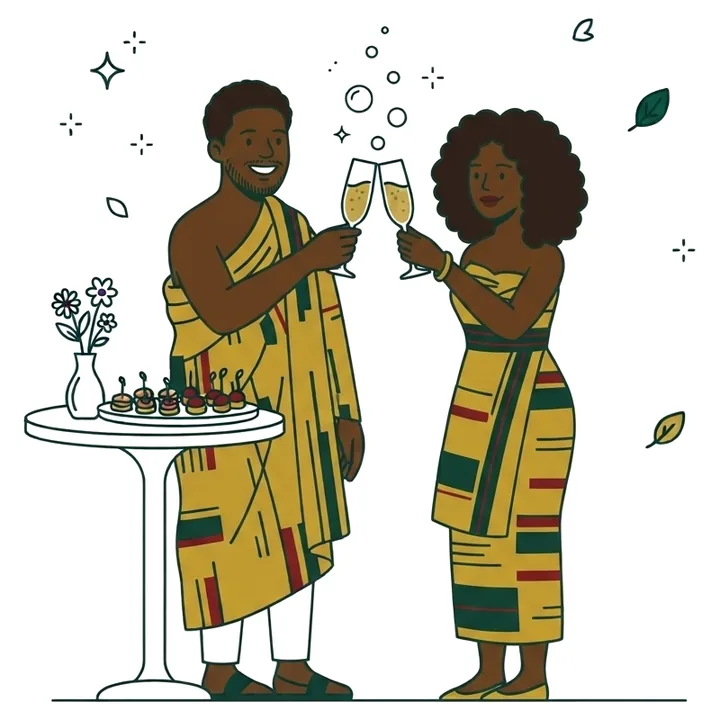
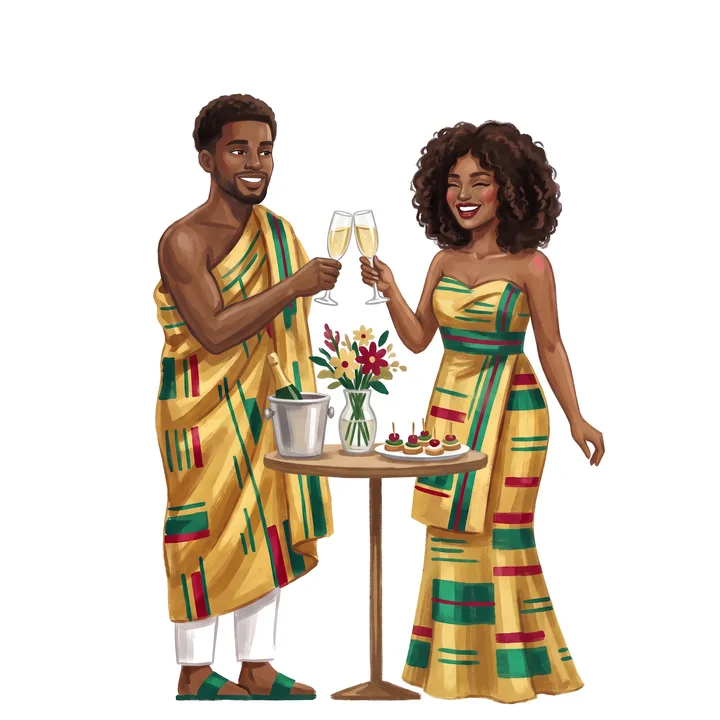
feat: busta interattiva con Gye Nyame e Matteo 19:6, hero con fedi e nuovo kente, dress code, timeline in stile illustrazione di moda

diff --git a/george-silvia/index.html b/george-silvia/index.html
@@ -16,24 +16,32 @@
   <link rel="preconnect" href="https://fonts.googleapis.com">
   <link rel="preconnect" href="https://fonts.gstatic.com" crossorigin>
   <link href="https://fonts.googleapis.com/css2?family=Cormorant+Garamond:ital,wght@1,500&family=DM+Sans:opsz,wght@9..40,300;9..40,400;9..40,500&family=Italiana&family=Pinyon+Script&display=swap" rel="stylesheet">
-  <link rel="preload" as="image" href="assets/img/hero.webp" media="(min-width: 768px)">
-  <link rel="preload" as="image" href="assets/img/hero-portrait.webp" media="(max-width: 767px)">
+  <link rel="preload" as="image" href="assets/img/hero-kente2.webp" media="(min-width: 768px)">
+  <link rel="preload" as="image" href="assets/img/hero-kente2-portrait.webp" media="(max-width: 767px)">
   <link rel="stylesheet" href="style.css">
   <script>document.documentElement.classList.add("js")</script>
 </head>
 <body>
 
-<!-- ============ INTRO: tessitura kente ============ -->
+<!-- ============ INTRO: busta che si apre (sigillo Gye Nyame, Matteo 19:6) ============ -->
 <div class="intro" id="intro">
-  <div class="intro__panel intro__panel--top" aria-hidden="true"></div>
-  <div class="intro__panel intro__panel--bottom" aria-hidden="true"></div>
-  <div class="intro__medal" aria-hidden="true">
-    <svg class="draw" viewBox="0 0 48 48" aria-hidden="true">
-      <use href="#i-akoma-ntoaso"/>
-    </svg>
-    <span class="intro__mono">G <i>&amp;</i> S</span>
+  <div class="intro__panel intro__panel--top" aria-hidden="true"><svg class="env__back" viewBox="0 0 100 100" preserveAspectRatio="none"><use href="#env-back"/></svg></div>
+  <div class="intro__panel intro__panel--bottom">
+    <svg class="env__back" viewBox="0 0 100 100" preserveAspectRatio="none" aria-hidden="true"><use href="#env-back"/></svg>
+    <blockquote class="env__verse">
+      <p data-i18n="intro.verse">«Così non sono più due, ma una sola carne; quello dunque che Dio ha unito, l'uomo non lo separi.»</p>
+      <cite data-i18n="intro.ref">Matteo 19:6</cite>
+      <span class="env__hint" data-i18n="intro.hint" aria-hidden="true">Tocca la busta per aprirla</span>
+    </blockquote>
   </div>
-  <p class="intro__lead"><span data-i18n="hero.lead">Benvenuti al matrimonio tradizionale di</span></p>
+  <div class="env__glow" aria-hidden="true"></div>
+  <svg class="env__flap" viewBox="0 0 100 100" preserveAspectRatio="none" aria-hidden="true">
+    <polygon points="0,0 100,0 50,56" fill="#0d3a2c"/>
+    <polyline points="0,0 50,56 100,0" fill="none" stroke="#C9A13B" stroke-opacity=".55" stroke-width="1" vector-effect="non-scaling-stroke"/>
+  </svg>
+  <button class="env__seal" type="button" aria-label="Apri la busta" data-i18n-aria="intro.open">
+    <svg viewBox="-38 -5 510 510" aria-hidden="true"><path fill="currentColor" fill-rule="evenodd" d="M180.475,11.245c11.609,15.968,7.794,46.741,26.767,55.644 c26.062-0.674,25.307-27.081,40.147-38.522c37.423-25.598,80.812-4.661,84.757,21.401c8.344,55.104-94.203,80.456-84.757,136.968 c9.536,33.494,46.84-40.814,80.296-4.281c29.544,65.467-102.894,51.963-95.405,99.257c8.479,69.408,83.598-43.18,99.866,7.75 c7.444,61.115-90.009,39.543-71.376,85.605c31.053,43.338,93.146-42.834,84.878-31.873c43.16-57.209,85.813-159.123,29.777-256.006 c99.626,91.095,71.729,313.357-69.21,350.594c14.787,9.459,18.504,36.646,8.087,48.568c-10.346,11.842-36.933,22.807-57.991,4.281 c-10.31-14.361,2.403-39.824-26.765-47.08c-18.745-4.664-32.433,39.398-55.647,52.135c-15.555,8.533-43.473,1.455-59.915-15.34 c-14.078-14.379-14.788-47.295,0.466-56.301c26.519-15.656,80.032-33.082,83.868-87.5c-5.471-40.646-59.689,35.025-84.756,8.559 c-34.083-68.123,83.784-46.83,89.217-102.725c-0.074-36.338-67.55,32.542-89.217-8.562c-38.333-69.896,114.667-36.896,93.68-94.165 c-24.013-47.731-112.56,5.376-147.334,72.364c-19.86,38.258-46.917,121.406-34.647,187.93 C-22.375,289.606-9.89,111.731,125.831,70.548c-16.777-6.39-21.382-28.988-8.3-51.689C125.911,4.318,159.07-11.08,180.475,11.245z"/></svg>
+  </button>
   <button class="intro__skip" type="button" data-i18n="intro.skip">Salta</button>
 </div>
 
@@ -57,19 +65,29 @@
   <!-- ============ HERO ============ -->
   <section class="hero" id="hero">
     <picture class="hero__media">
-      <source media="(max-width: 767px)" srcset="assets/img/hero-portrait.webp" type="image/webp">
-      <source srcset="assets/img/hero.webp" type="image/webp">
-      <img src="assets/img/hero.jpg" alt="" width="2752" height="1536">
+      <source media="(max-width: 767px)" srcset="assets/img/hero-kente2-portrait.webp" type="image/webp">
+      <source srcset="assets/img/hero-kente2.webp" type="image/webp">
+      <img src="assets/img/hero-kente2.jpg" alt="" width="2752" height="1536">
     </picture>
     <div class="hero__shade"></div>
     <div class="hero__content">
-      <p class="script hero__kicker" lang="ak">Akwaaba</p>
+      <p class="hero__lead"><span data-i18n="hero.lead">Benvenuti al nostro matrimonio tradizionale</span></p>
+      <p class="script hero__kicker" data-i18n="hero.of">della famiglia di</p>
       <h1 class="names" aria-label="George &amp; Silvia">
         <span class="names__line foil">George</span>
         <span class="names__and">&amp;</span>
         <span class="names__line foil">Silvia</span>
       </h1>
-      <p class="hero__invite" data-i18n="hero.invite">Insieme alle loro famiglie vi invitano a festeggiare</p>
+      <svg class="hero__rings" viewBox="0 0 100 64" aria-hidden="true">
+        <defs><linearGradient id="ring-foil" x1="0" y1="0" x2="1" y2="1"><stop offset="0" stop-color="#8a6a1f"/><stop offset=".3" stop-color="#f6e3a1"/><stop offset=".55" stop-color="#c9a13b"/><stop offset=".8" stop-color="#e8cd7c"/><stop offset="1" stop-color="#a07c2a"/></linearGradient></defs>
+        <g fill="none" stroke="url(#ring-foil)" stroke-width="4.5">
+          <circle pathLength="1" cx="38" cy="38" r="21"/>
+          <circle pathLength="1" cx="62" cy="38" r="21"/>
+          <!-- arco del primo anello ripassato sopra: gli anelli si intrecciano -->
+          <path pathLength="1" d="M57.8 17.4 A21 21 0 0 1 59 38"/>
+        </g>
+        <path class="hero__gem" d="M62 6 l5 6 -5 6 -5 -6z" fill="#f6e3a1" stroke="#c9a13b" stroke-width="1"/>
+      </svg>
       <p class="hero__date"><span>18</span><i></i><span>09</span><i></i><span>2027</span></p>
       <p class="label hero__place">Villa Fenaroli · Rezzato</p>
     </div>
@@ -225,6 +243,20 @@
 
   <div class="kente-band" aria-hidden="true"></div>
 
+  <!-- ============ DRESS CODE ============ -->
+  <section class="section paper dress" id="dresscode">
+    <p class="script kicker" data-i18n="dc.kicker">Cosa indossare</p>
+    <h2 class="title" data-split-lines>Dress code</h2>
+    <ul class="dress__list">
+      <li><span class="dress__swatch dress__swatch--kente" aria-hidden="true"></span><span class="dress__name">Kente</span></li>
+      <li><span class="dress__swatch dress__swatch--trad" aria-hidden="true"></span><span class="dress__name" data-i18n="dc.trad">Abito tradizionale</span></li>
+      <li><span class="dress__swatch dress__swatch--elegant" aria-hidden="true"></span><span class="dress__name" data-i18n="dc.elegant">Elegante</span></li>
+    </ul>
+    <p class="dress__note" data-i18n="dc.note">Indossate il kente o un abito tradizionale; in alternativa, un look elegante.</p>
+  </section>
+
+  <div class="kente-band" aria-hidden="true"></div>
+
   <!-- ============ RSVP ============ -->
   <section class="section dark rsvp" id="rsvp">
     <p class="script kicker" data-i18n="rs.kicker">Ci sarai?</p>
@@ -309,6 +341,12 @@
 <!-- Simboli ispirati agli Adinkra (disegnati a mano, originali) + icone Phosphor Light (MIT, phosphoricons.com) -->
 <svg width="0" height="0" style="position:absolute" aria-hidden="true">
   <defs>
+    <g id="env-back">
+      <polygon points="0,0 50,50 0,100" fill="#fff" fill-opacity=".025"/>
+      <polygon points="100,0 50,50 100,100" fill="#fff" fill-opacity=".025"/>
+      <polygon points="0,100 50,48 100,100" fill="#000" fill-opacity=".14"/>
+      <polyline points="0,100 50,48 100,100" fill="none" stroke="#C9A13B" stroke-opacity=".35" stroke-width="1" vector-effect="non-scaling-stroke"/>
+    </g>
     <symbol id="ph-check-circle" viewBox="0 0 256 256"><path fill="currentColor" d="M172.24,99.76a6,6,0,0,1,0,8.48l-56,56a6,6,0,0,1-8.48,0l-24-24a6,6,0,0,1,8.48-8.48L112,151.51l51.76-51.75A6,6,0,0,1,172.24,99.76ZM230,128A102,102,0,1,1,128,26,102.12,102.12,0,0,1,230,128Zm-12,0a90,90,0,1,0-90,90A90.1,90.1,0,0,0,218,128Z"/></symbol>
     <symbol id="ph-x-circle" viewBox="0 0 256 256"><path fill="currentColor" d="M164.24,100.24,136.48,128l27.76,27.76a6,6,0,1,1-8.48,8.48L128,136.48l-27.76,27.76a6,6,0,0,1-8.48-8.48L119.52,128,91.76,100.24a6,6,0,0,1,8.48-8.48L128,119.52l27.76-27.76a6,6,0,0,1,8.48,8.48ZM230,128A102,102,0,1,1,128,26,102.12,102.12,0,0,1,230,128Zm-12,0a90,90,0,1,0-90,90A90.1,90.1,0,0,0,218,128Z"/></symbol>
     <symbol id="ph-user-plus" viewBox="0 0 256 256"><path fill="currentColor" d="M254,136a6,6,0,0,1-6,6H230v18a6,6,0,0,1-12,0V142H200a6,6,0,0,1,0-12h18V112a6,6,0,0,1,12,0v18h18A6,6,0,0,1,254,136Zm-57.41,60.14a6,6,0,1,1-9.18,7.72C166.9,179.45,138.69,166,108,166s-58.89,13.45-79.41,37.86a6,6,0,0,1-9.18-7.72C35.14,177.41,55,164.48,77,158.25a66,66,0,1,1,62,0C161,164.48,180.86,177.41,196.59,196.14ZM108,154a54,54,0,1,0-54-54A54.06,54.06,0,0,0,108,154Z"/></symbol>

diff --git a/george-silvia/style.css b/george-silvia/style.css
@@ -75,26 +75,47 @@ body::after {
 .intro { display: none; }
 .js .intro {
   display: block; position: fixed; inset: 0; z-index: 100;
-  animation: intro-failsafe 0s 10s forwards; /* se il JS si rompe, l'intro sparisce comunque */
+  animation: intro-failsafe 0s 13s forwards; /* se il JS si rompe, l'intro sparisce comunque */
 }
 @keyframes intro-failsafe { to { visibility: hidden; } }
-.intro__panel { position: absolute; inset: 0; background: var(--emerald-deep); overflow: hidden; }
+.intro { perspective: 1400px; }
+.intro__panel { position: absolute; inset: 0; overflow: hidden; background: radial-gradient(ellipse at 50% 40%, #11503d, var(--emerald-deep) 75%); }
 .intro__panel--top { clip-path: inset(0 0 50% 0); }
 .intro__panel--bottom { clip-path: inset(50% 0 0 0); }
-.intro__panel svg { width: 100%; height: 100%; display: block; }
-.intro__medal {
-  position: absolute; inset: 0; margin: auto; width: min(46vw, 220px); height: min(46vw, 220px); border-radius: 50%;
-  background: radial-gradient(circle, #0d3a2c 55%, #0a2a20 100%);
-  box-shadow: 0 0 0 1px rgba(201,161,59,.5), 0 30px 80px rgba(0,0,0,.55);
-  display: grid; place-items: center; color: var(--gold); opacity: 0;
+.env__back { position: absolute; inset: 0; width: 100%; height: 100%; }
+/* la busta: lembo che si apre verso l'alto, sigillo Gye Nyame sulla punta, versetto sotto */
+.env__flap { position: absolute; inset: 0; width: 100%; height: 100%; transform-origin: 50% 0; filter: drop-shadow(0 0 10px rgba(246,227,161,.45)) drop-shadow(0 18px 24px rgba(0,0,0,.35)); }
+.env__glow {
+  position: absolute; left: 50%; top: 52%; width: min(140vw, 1400px); aspect-ratio: 2 / 1; translate: -50% -50%; pointer-events: none;
+  background: radial-gradient(ellipse at 50% 50%, rgba(255,210,110,.6), rgba(201,161,59,.22) 35%, transparent 65%); mix-blend-mode: screen;
+  animation: env-glow 3.2s ease-in-out infinite alternate;
 }
-.intro__medal svg { width: 62%; grid-area: 1/1; }
-.intro__mono { grid-area: 1/1; align-self: end; margin-bottom: 9%; font: 400 15px/1 var(--display); letter-spacing: .3em; }
-.intro__lead {
-  position: absolute; left: 0; right: 0; top: calc(50% + min(23vw, 110px) + 28px); margin: 0; padding: 0 var(--gutter);
-  text-align: center; text-wrap: balance; font: 500 clamp(12px, 1.2vw, 15px)/1.6 var(--sans); letter-spacing: .28em; text-transform: uppercase; color: var(--ivory); opacity: 0;
+@keyframes env-glow { from { opacity: .55; scale: .94; } to { opacity: 1; scale: 1.04; } }
+.env__hint { display: block; margin-top: 28px; font: 500 11px/1 var(--sans); letter-spacing: .3em; text-transform: uppercase; color: var(--ivory); opacity: 0; }
+.env__hint.is-on { animation: env-hint 1.8s ease-in-out infinite alternate; }
+@keyframes env-hint { from { opacity: .35; } to { opacity: .9; } }
+.env__seal {
+  border: 0; padding: 0; cursor: pointer; transition: filter .4s var(--ease);
+  --s: min(30vw, 150px);
+  position: absolute; left: 50%; top: 56%; width: var(--s); height: var(--s); margin: calc(var(--s) / -2) 0 0 calc(var(--s) / -2);
+  display: grid; place-items: center; border-radius: 47% 53% 50% 50% / 52% 48% 52% 48%;
+  background: var(--foil); color: #6e520c;
+  box-shadow: inset 0 0 0 calc(var(--s) * .06) rgba(160,124,42,.55), inset 0 -6px 14px rgba(110,82,12,.45), 0 12px 30px rgba(0,0,0,.45);
 }
-.intro__lead span { display: inline-block; padding: 12px 22px; border-radius: 99px; background: rgba(11,31,24,.88); box-shadow: 0 0 0 1px rgba(201,161,59,.45); }
+.env__seal:hover { filter: brightness(1.12); }
+.env__seal:focus-visible { outline: 2px solid var(--gold-soft); outline-offset: 8px; }
+.env__seal svg { width: 58%; filter: drop-shadow(0 1px 0 rgba(246,227,161,.8)); }
+.env__verse {
+  position: absolute; left: 0; right: 0; top: calc(56% + min(15vw, 75px) + clamp(20px, 3vh, 36px)); margin: 0 auto; padding: 0 var(--gutter);
+  max-width: 34em; text-align: center; color: var(--ivory);
+}
+.env__verse p { margin: 0; font: italic 500 clamp(19px, 2.1vw, 28px)/1.4 "Cormorant Garamond", var(--display); text-wrap: balance; }
+.env__verse cite { display: block; margin-top: 14px; font: 500 12px/1 var(--sans); font-style: normal; letter-spacing: .3em; text-transform: uppercase; color: var(--gold-soft); }
+@media (max-width: 767px) and (orientation: portrait) {
+  .env__seal { top: 46%; }
+  .env__glow { top: 44%; aspect-ratio: 1; }
+  .env__verse { top: calc(46% + min(15vw, 75px) + 28px); }
+}
 .intro__skip {
   position: absolute; right: var(--gutter); bottom: max(28px, env(safe-area-inset-bottom)); z-index: 2;
   background: none; border: 1px solid rgba(244,237,224,.3); border-radius: 99px; padding: 15px 24px;
@@ -120,13 +141,14 @@ body::after {
   text-shadow: 0 2px 18px rgba(0,0,0,.42);
 }
 .hero__veil { position: absolute; inset: 0; z-index: 3; width: 100%; height: 100%; pointer-events: none; }
-.hero__kicker { font-size: clamp(40px, 4.4vw, 64px); line-height: 1; color: var(--gold-soft); }
+.hero__lead { margin: 0 0 6px; font: 500 clamp(12px, 1.1vw, 14px)/1.6 var(--sans); letter-spacing: .28em; text-transform: uppercase; text-wrap: balance; }
+.hero__kicker { font-size: clamp(30px, 3vw, 44px); line-height: 1.1; color: var(--gold-soft); }
+.hero__rings { display: block; width: clamp(72px, 7vw, 104px); margin: 0 auto 18px; overflow: visible; filter: drop-shadow(0 6px 14px rgba(0,0,0,.4)); }
 .names { position: relative; width: min(100%, 4.6em); margin: .1em auto .2em; font: italic 500 clamp(64px, 8.7vw, 148px)/.92 "Cormorant Garamond", var(--display); text-align: left; }
 .names__line { display: block; text-shadow: none; filter: drop-shadow(0 16px 38px rgba(0,0,0,.35)); }
 .names__line + .names__and + .names__line { text-align: right; }
 /* & grande e trasparente dietro i nomi (variante F) */
 .names__and { position: absolute; inset: 0; z-index: -1; display: grid; place-items: center; font-size: 1.7em; line-height: 1; color: rgba(227,199,122,.28); pointer-events: none; }
-.hero__invite { margin: 0 auto 1.6em; max-width: 34ch; text-wrap: balance; font-size: clamp(15px, 1.3vw, 18px); opacity: .85; }
 .hero__date { display: flex; align-items: center; justify-content: center; gap: 18px; margin: 0 0 14px; font: 400 clamp(26px, 2.6vw, 36px)/1 var(--display); color: var(--gold-soft); letter-spacing: .08em; }
 .hero__date i { width: 5px; height: 5px; background: var(--gold); transform: rotate(45deg); }
 .hero__place { opacity: .9; }
@@ -248,6 +270,24 @@ body::after {
 @keyframes pulse { from { transform: scale(.4); opacity: 1; } to { transform: scale(2.4); opacity: 0; } }
 @media (prefers-reduced-motion: reduce) { .map__pulse { animation: none; opacity: .6; } }
 @media (max-width: 640px) { .venue__map { aspect-ratio: 1; } }
+
+/* ---------- dress code ---------- */
+.dress__list { list-style: none; margin: clamp(48px, 7vw, 80px) auto 0; padding: 0; max-width: 860px; display: grid; grid-template-columns: repeat(3, 1fr); gap: clamp(20px, 4vw, 56px); }
+.dress__list li { display: flex; flex-direction: column; align-items: center; gap: 20px; }
+/* campioni di tessuto */
+.dress__swatch { width: clamp(96px, 13vw, 150px); aspect-ratio: 1; border-radius: 50%; box-shadow: 0 0 0 6px var(--ivory), 0 0 0 7px rgba(201,161,59,.6), 0 18px 40px rgba(11,46,35,.2); }
+.dress__swatch--kente { background:
+  repeating-linear-gradient(0deg, rgba(0,0,0,.16) 0 1px, transparent 1px 3px),
+  repeating-linear-gradient(90deg, var(--gold) 0 18px, var(--ink) 18px 21px, var(--emerald) 21px 34px, var(--gold) 34px 37px, var(--crimson) 37px 46px),
+  var(--gold); background-blend-mode: multiply, normal; }
+.dress__swatch--trad { background:
+  radial-gradient(circle, var(--gold) 2.5px, transparent 3px) 0 0 / 18px 18px,
+  radial-gradient(circle, rgba(244,237,224,.5) 1.5px, transparent 2px) 9px 9px / 18px 18px,
+  var(--crimson); }
+.dress__swatch--elegant { background: linear-gradient(135deg, #1a6a51 0%, var(--emerald) 35%, var(--emerald-deep) 70%, #145a45 100%); }
+.dress__name { font: 400 clamp(26px, 3vw, 38px)/1.1 var(--display); color: var(--emerald); -webkit-text-stroke: .4px currentColor; text-wrap: balance; }
+.dress__note { max-width: 40ch; margin: clamp(40px, 5vw, 64px) auto 0; font-size: 18px; color: #2b2620; text-wrap: balance; }
+@media (max-width: 560px) { .dress__list { gap: 10px; } .dress__swatch { width: 84px; } .dress__name { font-size: 21px; } }
 
 /* ---------- RSVP ---------- */
 .rsvp__note { margin: 20px auto 0; max-width: 40ch; opacity: .8; }

diff --git a/george-silvia/main.js b/george-silvia/main.js
@@ -264,27 +264,7 @@ function confetti() {
   })(t0);
 }
 
-/* ---------- intro: tessitura kente ---------- */
-function weaveSVG() {
-  // strisce kente: blocchi pieni alternati a blocchi rigati, sfalsati a scacchiera
-  const rows = 16, cols = 10, h = 1000 / rows, w = 1000 / cols;
-  const solid = ["#0F4D3A", "#8C1C24", "#14110D", "#0F4D3A"];
-  const lines = ["#0F4D3A", "#8C1C24", "#14110D"];
-  let blocks = "", warp = "";
-  for (let i = 0; i < rows; i++)
-    for (let j = 0; j < cols; j++) {
-      const x = j * w, y = i * h;
-      let g = `<rect x="${x}" y="${y}" width="${w + 0.5}" height="${h + 0.5}" fill="${(i + j) % 2 ? solid[(i + (j >> 1)) % 4] : "#C9A13B"}"/>`;
-      if ((i + j) % 2 === 0)
-        lines.forEach((c, k) => (g += `<rect x="${x}" y="${y + h * (0.22 + k * 0.24)}" width="${w + 0.5}" height="${h * 0.08}" fill="${c}"/>`));
-      blocks += `<g class="wf" data-i="${i}" data-j="${j}">${g}</g>`;
-    }
-  for (let k = 1; k < 80; k++)
-    warp += `<line class="wp" pathLength="1" x1="${k * 12.5}" y1="0" x2="${k * 12.5}" y2="1000" vector-effect="non-scaling-stroke"/>`;
-  return `<svg viewBox="0 0 1000 1000" preserveAspectRatio="none" aria-hidden="true">${blocks}
-    <g stroke="rgba(20,17,13,.28)" stroke-width="1" stroke-dasharray="1" stroke-dashoffset="1">${warp}</g></svg>`;
-}
-
+/* ---------- intro: busta che si apre ---------- */
 const intro = $("#intro");
 const endIntro = () => {
   intro?.remove();
@@ -309,29 +289,26 @@ if (!hasGsap || reduce) {
     gsap.ticker.lagSmoothing(0);
   }
 
-  const panels = $$(".intro__panel");
-  panels.forEach((p) => (p.innerHTML = weaveSVG()));
-  const heroBits = [".hero__kicker", ".names__line", ".names__and", ".hero__invite", ".hero__date", ".hero__place", ".nav"];
+  const heroBits = [".hero__lead", ".hero__kicker", ".names__line", ".names__and", ".hero__rings", ".hero__date", ".hero__place", ".nav"];
   gsap.set(heroBits, { opacity: 0 });
 
+  // busta chiusa -> sigillo Gye Nyame -> versetto -> il sigillo si stacca, il lembo si apre -> la busta si divide sull'hero
   const tl = gsap.timeline({ defaults: { ease: "expo.out" } });
-  tl.to($$(".wp", intro), { strokeDashoffset: 0, autoRound: false, duration: 0.9, stagger: { each: 0.005, from: "center" } })
-    .from($$(".wf", intro), {
-      scaleX: 0,
-      transformOrigin: (k, el) => (el.dataset.i % 2 ? "100% 50%" : "0% 50%"),
-      duration: 0.55,
-      ease: "power3.out",
-      stagger: (k, el) => {
-        const i = +el.dataset.i, j = +el.dataset.j;
-        return i * 0.055 + (i % 2 ? 9 - j : j) * 0.022;
-      },
-    }, 0.15)
-    .fromTo(".intro__medal", { opacity: 0, scale: 0.7 }, { opacity: 1, scale: 1, duration: 0.9 }, "-=0.5")
-    .to($$(".intro__medal [pathLength]"), { strokeDashoffset: 0, autoRound: false, duration: 1.1, stagger: 0.07, ease: "power2.inOut" }, "<0.1")
-    .fromTo(".intro__lead", { opacity: 0, y: 14 }, { opacity: 1, y: 0, duration: 0.9 }, "-=0.4")
-    .addLabel("open", "+=0.9")
-    .to([".intro__medal", ".intro__lead"], { scale: 1.5, opacity: 0, duration: 0.8, ease: "power2.in" }, "open")
-    .to(".intro__panel--top", { yPercent: -52, duration: 1.4, ease: "expo.inOut" }, "open+=0.35")
+  tl.from(".intro__panel, .env__flap", { opacity: 0, duration: 0.8, ease: "power1.out" })
+    .from(".env__flap", { scaleY: 0.92, duration: 1 }, "<")
+    .fromTo(".env__seal", { opacity: 0, scale: 1.8, rotate: -20 }, { opacity: 1, scale: 1, rotate: 0, duration: 0.9, ease: "back.out(1.6)" }, "-=0.4")
+    .fromTo(".env__seal", { "--fx": "100%" }, { "--fx": "0%", duration: 1.4, ease: "power2.inOut" }, "<")
+    .from(".env__verse p, .env__verse cite", { opacity: 0, y: 16, filter: "blur(6px)", duration: 1.2, stagger: 0.25 }, "-=0.6")
+    // la busta resta chiusa finché l'ospite non la tocca
+    .addPause("+=0.1", () => { if (skipped) return tl.play(); $(".env__hint").classList.add("is-on"); $(".env__seal").focus({ preventScroll: true }); })
+    .addLabel("open")
+    .to(".env__hint", { opacity: 0, duration: 0.3 }, "open")
+    .to(".env__glow", { scale: 1.8, opacity: 1, duration: 1.2, ease: "power2.out" }, "open+=0.2")
+    .to(".env__glow", { opacity: 0, duration: 0.8 }, "open+=1.4")
+    .to(".env__seal", { scale: 1.25, opacity: 0, duration: 0.5, ease: "power2.in" }, "open")
+    .to(".env__flap", { rotateX: 180, duration: 1.1, ease: "power2.inOut" }, "open+=0.2")
+    .to(".env__flap", { opacity: 0, duration: 0.3 }, "open+=0.85")
+    .to(".intro__panel--top", { yPercent: -52, duration: 1.4, ease: "expo.inOut" }, "open+=0.9")
     .to(".intro__panel--bottom", { yPercent: 52, duration: 1.4, ease: "expo.inOut" }, "<")
     .fromTo(".hero__media img", { scale: 1.25 }, { scale: 1, duration: 2.4, ease: "expo.out" }, "<")
     .add(heroIn, "<0.6")
@@ -342,18 +319,25 @@ if (!hasGsap || reduce) {
       if (target) lenis ? lenis.scrollTo(target, { offset: -60 }) : target.scrollIntoView();
     });
 
-  $(".intro__skip").addEventListener("click", () => tl.timeScale(6));
+  intro.style.animation = "none"; // il JS gira: niente failsafe a tempo, si aspetta il click
+  const open = () => { $(".env__hint").classList.remove("is-on"); $(".env__glow").style.animation = "none"; tl.play(); };
+  intro.addEventListener("click", (e) => { if (!e.target.closest(".intro__skip") && tl.paused()) open(); });
+  let skipped = false;
+  $(".intro__skip").addEventListener("click", () => { skipped = true; tl.timeScale(6); open(); });
   // fail-safe: mai bloccati dietro l'intro
-  setTimeout(() => { if (intro.isConnected) { tl.progress(1); endIntro(); gsap.set(heroBits, { opacity: 1 }); } }, 9000);
 
   function heroIn() {
     gsap.timeline({ defaults: { ease: "expo.out", duration: 1.4 } })
+      .fromTo(".hero__lead", { opacity: 0, y: 16 }, { opacity: 1, y: 0 })
       .fromTo(".hero__kicker", { opacity: 0, y: 24, filter: "blur(8px)" }, { opacity: 1, y: 0, filter: "blur(0px)" })
       .fromTo(".names__line", { opacity: 0, yPercent: 30, letterSpacing: "0.2em", filter: "blur(14px)" },
         { opacity: 1, yPercent: 0, letterSpacing: "0em", filter: "blur(0px)", duration: 1.8, stagger: 0.18 }, "<0.15")
       .fromTo(".names__and", { opacity: 0, scale: 0.6, rotate: -12 }, { opacity: 1, scale: 1, rotate: 0 }, "<0.4")
       .fromTo(".names", { "--fx": "100%" }, { "--fx": "30%", duration: 2.4, ease: "power2.inOut" }, "<")
-      .fromTo([".hero__invite", ".hero__date", ".hero__place"], { opacity: 0, y: 20 }, { opacity: 1, y: 0, stagger: 0.12 }, "<0.5")
+      .set(".hero__rings", { opacity: 1 }, "<0.4")
+      .fromTo(".hero__rings [pathLength]", { strokeDasharray: 1, strokeDashoffset: 1 }, { strokeDashoffset: 0, autoRound: false, duration: 1.6, stagger: 0.2, ease: "power2.inOut" }, "<")
+      .from(".hero__gem", { scale: 0, transformOrigin: "50% 50%", duration: 0.8, ease: "back.out(3)" }, ">-0.3")
+      .fromTo([".hero__date", ".hero__place"], { opacity: 0, y: 20 }, { opacity: 1, y: 0, stagger: 0.12 }, "<-0.6")
       .fromTo(".nav", { opacity: 0, y: -20 }, { opacity: 1, y: 0 }, "<0.2");
   }
 
@@ -438,7 +422,7 @@ void main(){
     });
 
     // reveal generici
-    ScrollTrigger.batch(".section .kicker, .rsvp__note, .venue__addr, .cd__unit, .cal, .venue__map, .section > .btn-row, .card, .footer > *", {
+    ScrollTrigger.batch(".section .kicker, .rsvp__note, .dress__list li, .dress__note, .venue__addr, .cd__unit, .cal, .venue__map, .section > .btn-row, .card, .footer > *", {
       start: "top 90%",
       once: true,
       onEnter: (els) => gsap.fromTo(els, { opacity: 0, y: 32 }, { opacity: 1, y: 0, duration: 1, stagger: 0.1, ease: "expo.out", overwrite: true }),

diff --git a/george-silvia/i18n.js b/george-silvia/i18n.js
@@ -2,10 +2,18 @@
 window.I18N = {
   it: {
     "intro.skip": "Salta",
+    "intro.hint": "Tocca la busta per aprirla",
+    "intro.open": "Apri la busta",
     "nav.schedule": "Programma",
     "nav.venue": "Luogo",
-    "hero.lead": "Benvenuti al matrimonio tradizionale di",
-    "hero.invite": "Insieme alle loro famiglie vi invitano a festeggiare",
+    "intro.verse": "«Così non sono più due, ma una sola carne; quello dunque che Dio ha unito, l'uomo non lo separi.»",
+    "intro.ref": "Matteo 19:6",
+    "hero.lead": "Benvenuti al nostro matrimonio tradizionale",
+    "hero.of": "della famiglia di",
+    "dc.kicker": "Cosa indossare",
+    "dc.trad": "Abito tradizionale",
+    "dc.elegant": "Elegante",
+    "dc.note": "Indossate il kente o un abito tradizionale; in alternativa, un look elegante.",
     "nav.aria": "Sezioni",
     "nav.reply": "Conferma presenza",
     "hero.scroll": "Scorri",
@@ -46,10 +54,18 @@ window.I18N = {
   },
   en: {
     "intro.skip": "Skip",
+    "intro.hint": "Tap the envelope to open it",
+    "intro.open": "Open the envelope",
     "nav.schedule": "Schedule",
     "nav.venue": "Venue",
-    "hero.lead": "Welcome to the traditional wedding of",
-    "hero.invite": "Together with their families, they invite you to celebrate",
+    "intro.verse": "“So they are no longer two, but one flesh. Therefore what God has joined together, let no one separate.”",
+    "intro.ref": "Matthew 19:6",
+    "hero.lead": "Welcome to our traditional marriage",
+    "hero.of": "of the family of",
+    "dc.kicker": "What to wear",
+    "dc.trad": "Traditional wear",
+    "dc.elegant": "Elegant",
+    "dc.note": "Wear kente or traditional attire; an elegant outfit is equally welcome.",
     "nav.aria": "Sections",
     "nav.reply": "Reply",
     "hero.scroll": "Scroll down",
